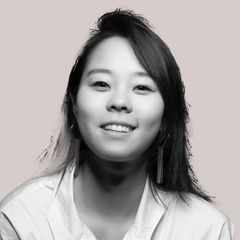
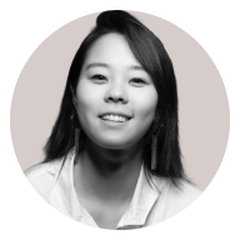
타임테이블: 피그마 프로필 사진 반영, 예매 페이지 변경(금 13:30 칸 삭제·토 시간 변경·4개 세션 예매 오픈) 반영 / 라인업: 박세인·김태희·정희진 카드 추가
Claude-Session: https://claude.ai/code/session_01R7psaqm8m7GEAGGww3SgQz

diff --git a/index.html b/index.html
@@ -880,16 +880,15 @@ try{ if('scrollRestoration' in history) history.scrollRestoration='manual'; }cat
   const D=[
    {d:'11.20',en:'FRIDAY',ko:'금요일',s:[
     {id:1,t:'09:30–11:00',ti:'SMCC Book Dive ‘이로운 식사법’',tc:1,sep:1,sp:[['SMCC'],['고경하']],nm:'SMCC · 고경하',sa:'SMCC · 슈리베다 원장'},
-    {id:2,t:'11:30–12:20',ti:'웰니스 키 플레이어 토크: 나를 돌보는 기준, 여성의 웰니스 루틴',tc:1,soon:1,sp:[['김태희'],['정희진'],['박세인']],nm:'김태희 · 정희진 · 박세인'},
-    {id:3,t:'13:30–14:20',ph:1},
+    {id:2,t:'11:30–12:20',ti:'웰니스 키 플레이어 토크: 나를 돌보는 기준, 여성의 웰니스 루틴',tc:1,sp:[['김태희'],['정희진'],['박세인']],nm:'김태희 · 정희진 · 박세인'},
     {id:4,t:'14:40–15:30',ti:'웰니스 커뮤니티, 비즈니스가 되다',tc:1,tag:'CEO 세션',sp:[['김록'],['찰리'],['박재현']],nm:'김록 · 찰리 · 박재현',sa:'1,000 CAL CLUB · 롱진 · SMCC'},
     {id:5,t:'16:00–16:50',ti:'틈새운동 (Exercise Snacking)',tc:1,sp:[['홍정기']],nm:'홍정기',sa:'교수 · 데이스쿼트'}]},
    {d:'11.21',en:'SATURDAY',ko:'토요일',s:[
     {id:6,t:'09:30–11:00',ti:'에블바레와 함께하는 SMCC 바레',tc:1,sep:1,sp:[['SMCC']],nm:'SMCC',sa:'함께 움직이는 액티비티'},
-    {id:7,t:'12:20–13:20',ti:'노화를 늦추는 과학: 생명공학이 본 롱제비티',tc:1,soon:1,sp:[['변상균']],nm:'변상균',sa:'연세대학교 생명공학과 교수'},
-    {id:8,t:'13:40–14:40',ti:'스킨 롱제비티: 피부도 노화를 늦출 수 있을까',tc:1,soon:1,sp:[['이주희']],nm:'이주희',sa:'피부과 전문의 · 주닥'},
-    {id:9,t:'15:00–16:00',ti:'달라지는 몸, 달라져야 할 관리',tc:1,soon:1,sp:[['최예진'],['김세한']],nm:'최예진 · 김세한',sa:'산부인과 전문의 · 정신건강의학과 전문의'},
-    {id:10,t:'16:20–17:40',ph:1}]},
+    {id:7,t:'11:30–12:20',ti:'노화를 늦추는 과학: 생명공학이 본 롱제비티',tc:1,sp:[['변상균']],nm:'변상균',sa:'연세대학교 생명공학과 교수'},
+    {id:8,t:'13:40–14:40',ti:'스킨 롱제비티: 피부도 노화를 늦출 수 있을까',tc:1,sp:[['이주희']],nm:'이주희',sa:'피부과 전문의 · 주닥'},
+    {id:9,t:'15:30–16:30',ti:'달라지는 몸, 달라져야 할 관리',tc:1,sp:[['최예진'],['김세한']],nm:'최예진 · 김세한',sa:'산부인과 전문의 · 정신건강의학과 전문의'},
+    {id:10,t:'16:50–18:10',ph:1}]},
    {d:'11.22',en:'SUNDAY',ko:'일요일',s:[
     {id:15,t:'09:30–10:30',ti:'연희 시이작과 함께하는 SMCC 요가',tc:1,sep:1,sp:[['SMCC'],['박준형']],nm:'SMCC · 박준형',sa:'지금요기 강사'},
     {id:11,t:'11:10–12:10',ti:'오래, 건강하게 운동하는 법',tc:1,open:1,sp:[['노경한'],['유현주']],nm:'노경한 · 유현주',sa:'정형외과 전문의 · 프로골프선수'},
@@ -901,7 +900,7 @@ try{ if('scrollRestoration' in history) history.scrollRestoration='manual'; }cat
   const av=n=>{ if(n==='SMCC') return `<span class="av logo"><img src="img/smcc.png" alt="SMCC"></span>`;
     if(n==='스페셜 게스트') return `<span class="av guest" aria-hidden="true"><svg width="20" height="20" viewBox="0 0 24 24"><path d="M12 1.5C12.7 7.4 16.6 11.3 22.5 12C16.6 12.7 12.7 16.6 12 22.5C11.3 16.6 7.4 12.7 1.5 12C7.4 11.3 11.3 7.4 12 1.5Z" fill="#7A5450"/></svg></span>`;
     const f=PHOTO[n]; if(!f) return `<span class="av" aria-hidden="true">${n.slice(0,1)}</span>`;
-    return `<span class="av photo"><img src="img/${f}.png?v=4" alt="" loading="lazy"></span>`; };
+    return `<span class="av photo"><img src="img/${f}.png?v=5" alt="" loading="lazy"></span>`; };
   const dur=t=>{const m=t.match(/(\d+):(\d+)\D+(\d+):(\d+)/); if(!m) return ''; const d=(+m[3]*60+ +m[4])-(+m[1]*60+ +m[2]); return d>0?d+'분':'';};
   const ACT={open:()=>`<a class="s-book" href="${BOOK}" target="_blank" rel="noopener">예매하기 ↗</a>`,
     soon:()=>`<span class="c-state soon">오픈 예정</span>`,
@@ -953,18 +952,19 @@ try{ if('scrollRestoration' in history) history.scrollRestoration='manual'; }cat
     ['nakjun_lu','이낙준','작가 · 이비인후과 전문의','LONGEVITY HISTORY','11.22 SUN','O',[-18.75,2.93,139.88]],
     ['hong_lu','홍정기','교수 · 데이스쿼트','EXERCISE SNACKING','11.20 FRI','B',[-4.17,14.86,117.86]],
     ['ceo_lu','김록 · 찰리 · 박재현','1,000 CAL CLUB · 롱진 · SMCC','CEO SESSION','11.20 FRI','O',[0,0,100]],
+    ['trio_lu','박세인 · 김태희 · 정희진','웰니스 키 플레이어 토크','WELLNESS KEY PLAYER','11.20 FRI','W',[0,0,100]],
     ['noh','노경한 · 유현주','정형외과 전문의 · 프로골프선수','MOVEMENT','11.22 SUN','B',[-12.2,25.9,82.14],0,['yoohj_lu',23.81,20.95,89.88]],
     ['byun','변상균','연세대학교 생명공학과 교수','LONGEVITY SCIENCE','11.21 SAT','O',[-10.36,17.61,108.93]],
     ['lee','이주희','피부과 전문의 · 주닥','SKIN LONGEVITY','11.21 SAT','W',[-5.65,18.92,96.43]],
     ['choi','최예진','산부인과 전문의',"WOMEN'S HEALTH",'11.21 SAT','O',[-7.53,9.50,113.10]]];
   const LV=[['soon'],...L.filter(r=>!r[7])];
-  const WORD={"byun": ["LONGEVITY", "SCIENCE"], "noh": ["MOVE", "MENT"], "lee": ["SKIN", "LONGEVITY"], "choi": ["WOMEN'S", "HEALTH"], "woo": ["META", "BOLIC"], "oh": ["MENTAL", "WELLNESS"], "nakjun_lu": ["LONGEVITY", "HISTORY"], "hong_lu": ["EXERCISE", "SNACKING"], "ceo_lu": ["CEO", "TALK"]};
+  const WORD={"byun": ["LONGEVITY", "SCIENCE"], "noh": ["MOVE", "MENT"], "lee": ["SKIN", "LONGEVITY"], "choi": ["WOMEN'S", "HEALTH"], "woo": ["META", "BOLIC"], "oh": ["MENTAL", "WELLNESS"], "nakjun_lu": ["LONGEVITY", "HISTORY"], "hong_lu": ["EXERCISE", "SNACKING"], "ceo_lu": ["CEO", "TALK"], "trio_lu": ["WELLNESS", "ROUTINE"]};
   const rail=document.getElementById('rail');
   const BOOKL='https://mindwellexpo.com/ticket/longzine';
   const cardHTML=(r,clone)=>{ const ti=clone?' tabindex="-1" aria-hidden="true"':'';
     if(r[0]==='soon') return `<a class="l-card soon" href="${BOOKL}" target="_blank" rel="noopener"${ti}><div class="l-top"><span>LINEUP</span><b>COMING SOON</b></div><div class="soon-mid"><svg viewBox="0 0 24 24" width="44" height="44" aria-hidden="true"><path d="M12 1.5C12.7 7.4 16.6 11.3 22.5 12C16.6 12.7 12.7 16.6 12 22.5C11.3 16.6 7.4 12.7 1.5 12C7.4 11.3 11.3 7.4 12 1.5Z" fill="#fff"/></svg><h3>더 많은 연사가<br>곧 공개됩니다</h3></div><div class="l-bottom"><span class="l-book">롱진콘 신청하기 ↗</span></div></a>`;
     const [f,n,d,c,dt,t,[x,y,w]]=r;
-    return `<a class="l-card ${t}${r[8]?' duo':''}" href="${BOOKL}" target="_blank" rel="noopener"${ti}><div class="l-type" aria-hidden="true"><span>${WORD[f][0]}</span><span>${WORD[f][1]}</span></div>${r[8]?`<img src="img/${r[8][0]}.webp?v=3" alt="" loading="lazy" style="left:${r[8][1]}%;top:${r[8][2]}%;width:${r[8][3]}%;filter:none">`:''}<img src="img/${f}.webp${f==='ceo_lu'?'?v=4':''}" alt="${clone?'':n}" loading="lazy" style="left:${x}%;top:${y}%;width:${w}%${f==='ceo_lu'?';filter:none':''}">${r[8]?'<div style="position:absolute;left:-5.95%;top:66.89%;width:108.33%;height:36.71%;background:linear-gradient(rgba(14,46,90,0),#0E2E5A);pointer-events:none"></div>':''}<div class="scrim"></div><div class="l-top"><span>${c}</span><b>${dt}</b></div><div class="l-bottom"><h3>${n}</h3><p>${d}</p><span class="l-book">예매하기 ↗</span></div></a>`; };
+    return `<a class="l-card ${t}${r[8]?' duo':''}" href="${BOOKL}" target="_blank" rel="noopener"${ti}><div class="l-type" aria-hidden="true"><span>${WORD[f][0]}</span><span>${WORD[f][1]}</span></div>${r[8]?`<img src="img/${r[8][0]}.webp?v=3" alt="" loading="lazy" style="left:${r[8][1]}%;top:${r[8][2]}%;width:${r[8][3]}%;filter:none">`:''}<img src="img/${f}.webp${f==='ceo_lu'?'?v=4':f==='trio_lu'?'?v=1':''}" alt="${clone?'':n}" loading="lazy" style="left:${x}%;top:${y}%;width:${w}%${(f==='ceo_lu'||f==='trio_lu')?';filter:none':''}">${r[8]?'<div style="position:absolute;left:-5.95%;top:66.89%;width:108.33%;height:36.71%;background:linear-gradient(rgba(14,46,90,0),#0E2E5A);pointer-events:none"></div>':''}${f==='trio_lu'?'':'<div class="scrim"></div>'}<div class="l-top"><span>${c}</span><b>${dt}</b></div><div class="l-bottom"><h3>${n}</h3><p>${d}</p><span class="l-book">예매하기 ↗</span></div></a>`; };
   // 무한 루프: 같은 카드 세트를 앞·뒤로 한 벌씩 더 붙이고, 가운데 세트를 벗어나면 같은 위치의 가운데 카드로 몰래 점프
   rail.innerHTML=LV.map(c=>cardHTML(c,1)).join('')+LV.map(c=>cardHTML(c,0)).join('')+LV.map(c=>cardHTML(c,1)).join('');
   const cards=()=>rail.querySelectorAll('.l-card');
